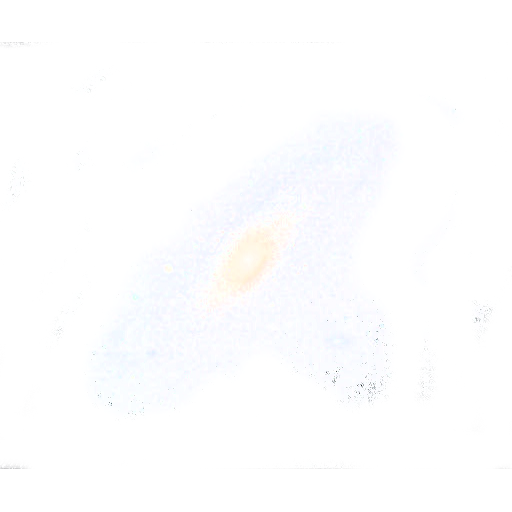
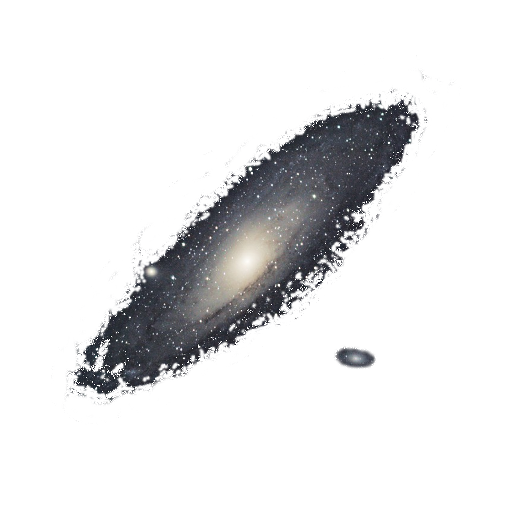
better m31 image and coordinates and removed few typos

Changed region(s): [[0.125, 0.1875, 0.8438, 0.7812], [0.6562, 0.6562, 0.75, 0.7188], [0.6875, 0.75, 0.75, 0.7812]]

diff --git a/test.html b/test.html
@@ -12,6 +12,7 @@
       <a-cylinder position="1 0.75 -3" radius="0.5" height="1.5" color="#FFC65D"></a-cylinder>
         <a-animation attribute="opacity" dur="5000" from="0.0" to="0.8"></a-animation>
         <a-ring position="0 0 -20" color="gray" radius="0.1" opacity=0.5></a-ring>
+      <a-plane id="test-plane" src="m31.png" position="0 0 -10" rotation="0 0 0" width=8 height=8 transparent="true" opacity="1.0"></a-plane>
       --!>
       <a-camera id="camera" position="0 0 0" rotation="0 0 0"></a-camera>
       <a-sky id="starry-sky" src="milkyway.jpg"></a-sky>
@@ -71,9 +72,9 @@
     document.onkeyup=keyUpHandler;
     
     // duration of the sky darkening animation
-    skyDarkeningDuration = 4000; // ms
+    skyDarkeningDuration = 2000; // ms
     // duration of the sky clearing animation
-    skyClearingDuration = skyDarkeningDuration / 8;
+    skyClearingDuration = skyDarkeningDuration / 4;
     skyDarkeningIntensity = 0.8 // level of darkening of the sky (1.0 is totally black)
 
     function darkenSky() {
@@ -137,11 +138,11 @@
     zoomedObject = null; // is set to a JSON object with details of the currently zoomed-in object
     
     // duration of the object zoom-in animation
-    zoomInDuration = 4000 // ms
+    zoomInDuration = 3000 // ms
     // how fast the zoomed object appears (opacity is animated from 0 to 1)
-    appearDuration = zoomInDuration / 8;
+    appearDuration = zoomInDuration / 6;
     // duration of the object zoom-out animation
-    zoomOutDuration = zoomInDuration / 8;
+    zoomOutDuration = zoomInDuration / 6;
 
     function zoomInSkyObject(skyObject) {
         // sky object plane coordinates
@@ -229,34 +230,15 @@
     function cosAngle(direction1, direction2) {
         dotProduct = direction1[0]*direction2[0] + direction1[1]*direction2[1] + direction1[2]*direction2[2];
         
-        absDirection1 = Math.sqrt(direction1[0]**2 + direction1[0]**2 + direction1[0]**2);
-        absDirection2 = Math.sqrt(direction2[0]**2 + direction2[0]**2 + direction2[0]**2);
+        absDirection1 = Math.sqrt(direction1[0]**2 + direction1[1]**2 + direction1[2]**2);
+        absDirection2 = Math.sqrt(direction2[0]**2 + direction2[1]**2 + direction2[2]**2);
         
         return dotProduct / (absDirection1 * absDirection2);
     }
     
     function getSkyObject(gazingDirection) {
         // TODO checks and multiple objects
-        return {
-            id: "m31",
-
-            image: "m31.png",
-
-            width: 8,
-            height: 8,
-
-            x: 48.90764378515029,
-            y: -45.62703952190438,
-            z: 95.71002621136812,
-
-            delta: -23.720452718416084,
-            alpha: 207.0669471602788,
-            orientation: -95,
-
-            zoom: 10,
-
-            gazingThreshold: 0.93
-        }
+        return {id:"m31",image:"m31.png",x:54.60190812484029,y:-50.90660844872456,z:105.07996794628716,alpha:567.4574002975671,delta:-23.26208648231143,orientation:-96,zoom:10,gazingThreshold:0.94,width:8,height:8}
     }
     
     function main_event_loop() {
@@ -295,12 +277,12 @@
         
         // keep the test plane in front of the camera and rotated accordingly if we have it
         testPlane = document.getElementById("test-plane");
-        if(testPlane) {
+        if (testPlane) {
             // put test plane in front of the camera in the currentDistance
             cameraPosition = camera.getAttribute('position');
             x = cameraPosition.x + currentDistance * currentDirection_x;
             y = cameraPosition.y + currentDistance * currentDirection_y;
-            z = cameraPosition.z + currentDistance * durrentDirection_z;
+            z = cameraPosition.z + currentDistance * currentDirection_z;
             // keep the test plane facing the camera and rotated with currentOrientation
             testPlane.setAttribute("position",x+" "+y+" "+z);
             testPlane.setAttribute("rotation",cameraDelta+" "+cameraAlpha+" "+currentOrientation);
@@ -323,8 +305,7 @@
             isGazing = (directionalVariation > currentGazingThreshold);
             
             if (isGazing) {
-                // use the average of the diretional vector of the previousDirections as the gazing direction
-                console.log("gazing")
+                // use the average of the diretional vectors from the previousDirections as the current gazing direction
                 gazingDirection = previousDirections.reduce(
                     function(s,v){
                         s[0]+=v[0]/previousDirections.length;
@@ -335,14 +316,22 @@
                     [0,0,0]);
 
                 // determine if there is any object near the current gazing direction
-                objectUnderGaze = getSkyObject(gazingDirection);
-                if (objectUnderGaze && !zoomedObject) {
-                    darkenSky();
-                    zoomInSkyObject(objectUnderGaze);
+                if (zoomedObject) {
+                    objectDirection = [zoomedObject.x, zoomedObject.y, zoomedObject.z];
+                    if ( cosAngle(objectDirection, gazingDirection) < zoomedObject.gazingThreshold ) {
+                        zoomOutSkyObject(zoomedObject);
+                        clearSky();
+                    }
+                }
+                else {
+                    objectUnderGaze = getSkyObject(gazingDirection);
+                    if (objectUnderGaze) {
+                        darkenSky();
+                        zoomInSkyObject(objectUnderGaze);
+                    }
                 }
             } else {
                 // not gazing
-                console.log("not gazing")
                 if (zoomedObject) {
                     zoomOutSkyObject(zoomedObject);
                     clearSky();
